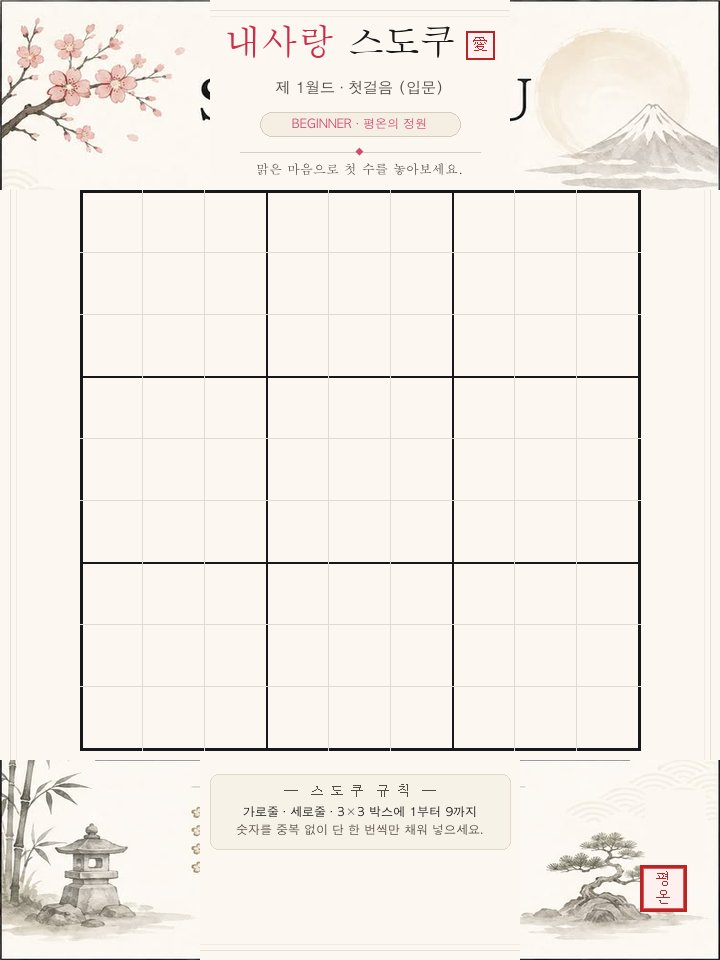
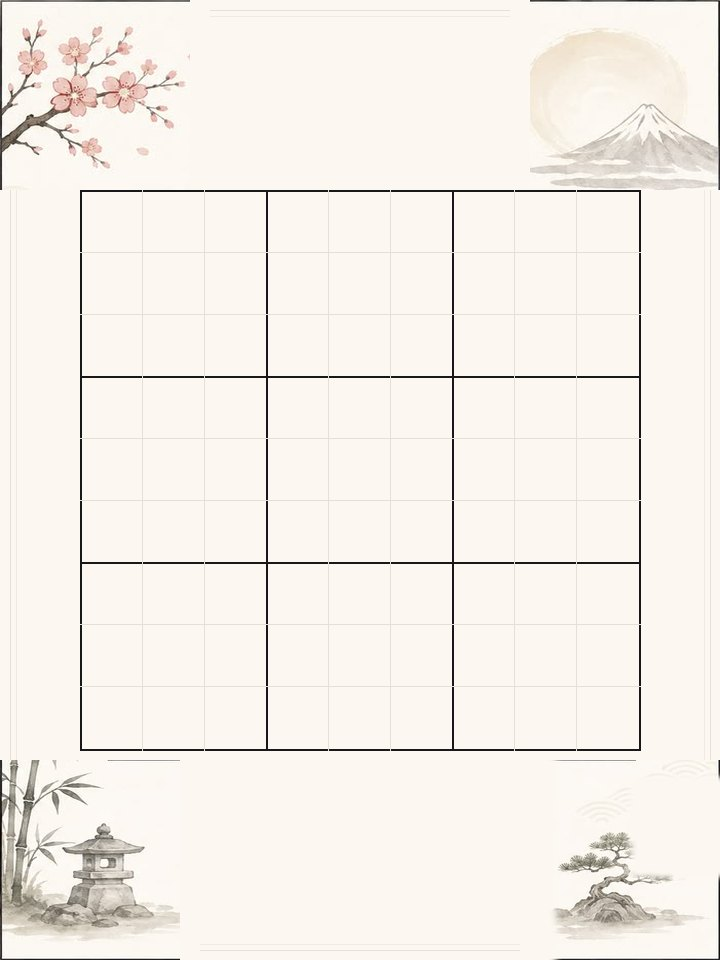
feat(ui): eliminate baked-in text from background images and render clean dynamic DOM typography for title, stage, theme, motto, rules and seal

diff --git a/src/app/GamePage.tsx b/src/app/GamePage.tsx
@@ -12,6 +12,52 @@ import { getRow, getCol, getBox } from '../domain/sudoku/types';
 import { PlayerInventory, DEFAULT_INVENTORY } from '../features/progression/progression';
 import { ItemDrawer } from '../components/ItemDrawer';
 
+interface WorldZenMeta {
+  themeName: string;
+  pill: string;
+  pillColor: string;
+  motto: string;
+  seal: [string, string];
+}
+
+const WORLD_ZEN_META: Record<number, WorldZenMeta> = {
+  1: {
+    themeName: '평온의 정원',
+    pill: 'BEGINNER · 평온의 정원',
+    pillColor: 'text-rose-700 bg-rose-50/90 border-rose-300',
+    motto: '맑은 마음으로 첫 수를 놓아보세요.',
+    seal: ['평', '온']
+  },
+  2: {
+    themeName: '푸른 대나무숲',
+    pill: 'EASY · 푸른 대나무숲',
+    pillColor: 'text-emerald-800 bg-emerald-50/90 border-emerald-300',
+    motto: '차분한 시선으로 논리의 실마리를 찾으세요.',
+    seal: ['통', '찰']
+  },
+  3: {
+    themeName: '황혼의 석탑',
+    pill: 'NORMAL · 황혼의 석탑',
+    pillColor: 'text-amber-800 bg-amber-50/90 border-amber-300',
+    motto: '깊은 집중으로 숨겨진 한 수를 밝히세요.',
+    seal: ['정', '진']
+  },
+  4: {
+    themeName: '설산과 백매화',
+    pill: 'HARD · 설산과 백매화',
+    pillColor: 'text-sky-800 bg-sky-50/90 border-sky-300',
+    motto: '정교한 추론으로 복잡한 실타래를 푸세요.',
+    seal: ['지', '혜']
+  },
+  5: {
+    themeName: '붉은 달과 천년송',
+    pill: 'MASTER · 붉은 달과 천년송',
+    pillColor: 'text-purple-800 bg-purple-50/90 border-purple-300',
+    motto: '완전한 통찰로 최고의 경지를 이루세요.',
+    seal: ['극', '치']
+  }
+};
+
 interface GamePageProps {
   stageId: number;
   activeGameSave: ActiveGameSave | null;
@@ -41,6 +87,7 @@ export const GamePage: React.FC<GamePageProps> = ({
 }) => {
   const stage = getStageById(stageId) || getStageById(1)!;
   const currentInventory = inventory || DEFAULT_INVENTORY;
+  const zenMeta = WORLD_ZEN_META[stage.worldId] || WORLD_ZEN_META[1];
 
   const [state, dispatch] = useReducer(gameReducer, stage, (initialStage) => {
     const fresh = createInitialState(initialStage);
@@ -443,10 +490,36 @@ export const GamePage: React.FC<GamePageProps> = ({
             />
           </picture>
 
-          {/* Dynamic Stage Header Subtitle Overlay */}
-          <div className="absolute top-[8.2%] left-[18%] right-[18%] text-center pointer-events-none select-none">
-            <div className="text-[10px] sm:text-[11px] font-bold text-stone-700 truncate tracking-wide">
+          {/* Top Zen Sheet Header: Real HTML Typography */}
+          <div className="absolute top-0 left-0 right-0 h-[19.8%] flex flex-col items-center justify-center px-4 pointer-events-none select-none z-10">
+            {/* Title: 내사랑 스도쿠 + 愛 Seal */}
+            <div className="flex items-center justify-center gap-1.5 leading-none">
+              <span className="font-serif font-black text-sm sm:text-base text-rose-700 tracking-tight drop-shadow-xs">
+                내사랑
+              </span>
+              <span className="font-serif font-black text-sm sm:text-base text-slate-900 tracking-tight drop-shadow-xs">
+                스도쿠
+              </span>
+              <span className="inline-flex items-center justify-center w-4 h-4 border border-rose-600 rounded-2xs text-[8px] font-serif font-black text-rose-600 bg-rose-50/90 leading-none shadow-xs">
+                愛
+              </span>
+            </div>
+
+            {/* Stage Info: 제 1단계 · 첫 번째 퍼즐 */}
+            <div className="text-[10.5px] sm:text-[11.5px] font-black text-stone-900 tracking-wide mt-1 truncate max-w-[260px]">
               제 {stage.id}단계 · {stage.title}
+            </div>
+
+            {/* World Level Theme Pill Badge */}
+            <div className="mt-0.5">
+              <span className={`inline-block px-2.5 py-0.5 rounded-full text-[8.5px] sm:text-[9.5px] font-black tracking-wider uppercase border shadow-2xs ${zenMeta.pillColor}`}>
+                {zenMeta.pill}
+              </span>
+            </div>
+
+            {/* Zen Motto / 힐링 한마디 */}
+            <div className="text-[8.5px] sm:text-[9.5px] text-stone-600 font-serif italic mt-0.5 tracking-tight truncate max-w-[280px]">
+              “{zenMeta.motto}”
             </div>
           </div>
 
@@ -557,6 +630,33 @@ export const GamePage: React.FC<GamePageProps> = ({
                 </div>
               );
             })}
+          </div>
+
+          {/* Bottom Zen Sheet Footer: Traditional Rules Plaque & Red Seal Stamp */}
+          <div className="absolute top-[78.2%] left-0 right-0 bottom-0 flex items-center justify-between px-3 sm:px-4 pointer-events-none select-none z-10">
+            {/* Left spacer for background lantern artwork */}
+            <div className="w-10 sm:w-12 shrink-0" />
+
+            {/* Center: Rules Plaque */}
+            <div className="flex-1 max-w-[220px] sm:max-w-[250px] mx-auto px-2 py-1.5 rounded-xl bg-white/85 backdrop-blur-xs border border-amber-900/15 shadow-xs text-center">
+              <div className="text-[9px] sm:text-[10px] font-serif font-black text-stone-700 tracking-widest">
+                — 스 도 쿠  규 칙 —
+              </div>
+              <div className="text-[8px] sm:text-[8.5px] font-bold text-slate-900 mt-0.5 leading-tight">
+                가로줄 · 세로줄 · 3×3 박스에 1부터 9까지
+              </div>
+              <div className="text-[7.5px] sm:text-[8px] font-medium text-stone-600 mt-0.5 leading-tight">
+                숫자를 중복 없이 단 한 번씩만 채워 넣으세요.
+              </div>
+            </div>
+
+            {/* Right: Traditional Korean Red Seal Stamp (인장) */}
+            <div className="w-10 sm:w-12 shrink-0 flex items-center justify-center">
+              <div className="w-8 h-8 sm:w-8.5 sm:h-8.5 rounded-xs border-2 border-red-700 bg-red-50/90 p-0.5 flex flex-col items-center justify-center text-red-700 font-serif font-black text-[9.5px] sm:text-[10px] leading-tight shadow-sm ring-1 ring-red-400/40">
+                <span>{zenMeta.seal[0]}</span>
+                <span>{zenMeta.seal[1]}</span>
+              </div>
+            </div>
           </div>
         </div>
       </main>

diff --git a/scripts/generate_zen_master_sheets.py b/scripts/generate_zen_master_sheets.py
@@ -1,5 +1,5 @@
 import os
-from PIL import Image, ImageDraw, ImageFont, ImageEnhance, ImageOps
+from PIL import Image, ImageDraw, ImageEnhance, ImageOps, ImageFilter
 
 SRC_IMG = "/tmp/pin1_zen.jpg"
 OUT_DIR = "/Users/kobujang/Desktop/cording/my-love-sudoku/public/assets/backgrounds"
@@ -14,79 +14,62 @@ BOARD_SIZE = 560
 
 BG_COLOR = (252, 248, 241)
 INK_BLACK = (24, 24, 26)
-INK_MUTED = (85, 75, 70)
-INK_LIGHT = (160, 150, 140)
-SEAL_RED = (185, 36, 36)
-
-FONT_TITLE = ImageFont.truetype("/System/Library/Fonts/Supplemental/AppleMyungjo.ttf", 36)
-FONT_SUB = ImageFont.truetype("/System/Library/Fonts/Supplemental/AppleGothic.ttf", 15)
-FONT_PILL = ImageFont.truetype("/System/Library/Fonts/Supplemental/AppleGothic.ttf", 12)
-FONT_RULES_TITLE = ImageFont.truetype("/System/Library/Fonts/Supplemental/AppleMyungjo.ttf", 14)
-FONT_RULES = ImageFont.truetype("/System/Library/Fonts/Supplemental/AppleGothic.ttf", 12)
-FONT_MOTTO = ImageFont.truetype("/System/Library/Fonts/Supplemental/AppleMyungjo.ttf", 13)
-FONT_SEAL = ImageFont.truetype("/System/Library/Fonts/Supplemental/AppleMyungjo.ttf", 16)
 
 src_full = Image.open(SRC_IMG).convert("RGB")
 
-orig_tl = src_full.crop((0, 0, 220, 220))
-orig_tr = src_full.crop((516, 0, 736, 220))
-orig_bl = src_full.crop((0, 740, 220, 1040))
-orig_br = src_full.crop((516, 740, 736, 1040))
+# Clean crops that strictly exclude any text, letters, or kanji:
+# TL: Cherry blossoms (x <= 185, no 'S')
+orig_tl = Image.new("RGB", (210, 190), BG_COLOR)
+crop_tl = src_full.crop((0, 0, 185, 200)).resize((190, 190), Image.Resampling.LANCZOS)
+orig_tl.paste(crop_tl, (0, 0))
+
+# TR: Sun and Fuji Mountain (x >= 550, no 'U')
+orig_tr = Image.new("RGB", (210, 190), BG_COLOR)
+crop_tr = src_full.crop((550, 0, 736, 220)).resize((190, 190), Image.Resampling.LANCZOS)
+orig_tr.paste(crop_tr, (20, 0))
+
+# BL: Bamboo and Stone Lantern (x <= 175, no flowers/lines)
+orig_bl = Image.new("RGB", (200, 200), BG_COLOR)
+crop_bl = src_full.crop((0, 740, 175, 1040)).resize((180, 200), Image.Resampling.LANCZOS)
+orig_bl.paste(crop_bl, (0, 0))
+
+# BR: Pine Tree on Rock (softly erase Japanese 'が' and '平穏' seal)
+crop_br = src_full.crop((500, 740, 736, 1040))
+mask_br = Image.new('L', crop_br.size, 0)
+d_br = ImageDraw.Draw(mask_br)
+d_br.rectangle([0, 0, 42, 300], fill=255)
+d_br.rectangle([130, 25, 236, 175], fill=255)
+mask_br = mask_br.filter(ImageFilter.GaussianBlur(radius=4))
+bg_patch = Image.new('RGB', crop_br.size, BG_COLOR)
+crop_br = Image.composite(bg_patch, crop_br, mask_br)
+
+orig_br = Image.new("RGB", (200, 200), BG_COLOR)
+orig_br.paste(crop_br.resize((200, 200), Image.Resampling.LANCZOS), (0, 0))
 
 LEVEL_CONFIGS = [
     {
         "id": 1,
         "world_name": "첫걸음",
-        "difficulty": "입문",
-        "sub_title": "제 1월드 · 첫걸음 (입문)",
-        "pill": "BEGINNER · 평온의 정원",
-        "motto": "맑은 마음으로 첫 수를 놓아보세요.",
-        "seal": ["평", "온"],
-        "theme_color": (210, 75, 115),
         "tint": "spring"
     },
     {
         "id": 2,
         "world_name": "논리의 길",
-        "difficulty": "초급",
-        "sub_title": "제 2월드 · 논리의 길 (초급)",
-        "pill": "EASY · 푸른 대나무숲",
-        "motto": "차분한 시선으로 논리의 실마리를 찾으세요.",
-        "seal": ["통", "찰"],
-        "theme_color": (40, 135, 80),
         "tint": "summer"
     },
     {
         "id": 3,
         "world_name": "도전의 탑",
-        "difficulty": "중급",
-        "sub_title": "제 3월드 · 도전의 탑 (중급)",
-        "pill": "NORMAL · 황혼의 석탑",
-        "motto": "깊은 집중으로 숨겨진 한 수를 밝히세요.",
-        "seal": ["정", "진"],
-        "theme_color": (185, 70, 35),
         "tint": "autumn"
     },
     {
         "id": 4,
         "world_name": "전문가의 성",
-        "difficulty": "고급",
-        "sub_title": "제 4월드 · 전문가의 성 (고급)",
-        "pill": "HARD · 설산과 백매화",
-        "motto": "정교한 추론으로 복잡한 실타래를 푸세요.",
-        "seal": ["지", "혜"],
-        "theme_color": (60, 100, 155),
         "tint": "winter"
     },
     {
         "id": 5,
         "world_name": "마스터 리그",
-        "difficulty": "최고급",
-        "sub_title": "제 5월드 · 마스터 리그 (최고급)",
-        "pill": "MASTER · 붉은 달과 천년송",
-        "motto": "완전한 통찰로 최고의 경지를 이루세요.",
-        "seal": ["극", "치"],
-        "theme_color": (180, 25, 40),
         "tint": "transcendent"
     }
 ]
@@ -115,10 +98,11 @@ for cfg in LEVEL_CONFIGS:
     sheet = Image.new("RGB", (WIDTH, HEIGHT), BG_COLOR)
     draw = ImageDraw.Draw(sheet)
     
+    # Outer decorative parchment border frames
     draw.rectangle([10, 10, WIDTH - 10, HEIGHT - 10], outline=(232, 224, 212), width=1)
     draw.rectangle([16, 16, WIDTH - 16, HEIGHT - 16], outline=(240, 234, 224), width=1)
     
-    # Corner elements
+    # Corner artwork elements (cherry blossoms, mountain, bamboo, pine tree)
     tl = apply_tint(orig_tl, cfg["tint"]).resize((210, 190), Image.Resampling.LANCZOS)
     sheet.paste(tl, (0, 0))
     
@@ -131,12 +115,14 @@ for cfg in LEVEL_CONFIGS:
     br = apply_tint(orig_br, cfg["tint"]).resize((200, 200), Image.Resampling.LANCZOS)
     sheet.paste(br, (WIDTH - 200, HEIGHT - 200))
     
+    # Clean bottom corner patch for smooth watercolor blend
     draw.rectangle([WIDTH - 75, HEIGHT - 170, WIDTH - 15, HEIGHT - 90], fill=BG_COLOR)
     
-    # Board area
+    # Board parchment area: clean canvas with subtle border
     draw.rectangle([BOARD_X, BOARD_Y, BOARD_X + BOARD_SIZE, BOARD_Y + BOARD_SIZE], fill=BG_COLOR)
-    draw.rectangle([BOARD_X, BOARD_Y, BOARD_X + BOARD_SIZE, BOARD_Y + BOARD_SIZE], outline=INK_BLACK, width=3)
+    draw.rectangle([BOARD_X, BOARD_Y, BOARD_X + BOARD_SIZE, BOARD_Y + BOARD_SIZE], outline=INK_BLACK, width=2)
     
+    # Subtle 3x3 block guidelines
     cell_size = BOARD_SIZE // 9
     box_size = cell_size * 3
     for b in range(1, 3):
@@ -148,69 +134,14 @@ for cfg in LEVEL_CONFIGS:
     for c in range(1, 9):
         if c in (3, 6): continue
         y = BOARD_Y + c * cell_size
-        draw.line([(BOARD_X, y), (BOARD_X + BOARD_SIZE, y)], fill=(225, 218, 208), width=1)
+        draw.line([(BOARD_X, y), (BOARD_X + BOARD_SIZE, y)], fill=(230, 223, 214), width=1)
         x = BOARD_X + c * cell_size
-        draw.line([(x, BOARD_Y), (x, BOARD_Y + BOARD_SIZE)], fill=(225, 218, 208), width=1)
+        draw.line([(x, BOARD_Y), (x, BOARD_Y + BOARD_SIZE)], fill=(230, 223, 214), width=1)
 
-    # 5. Top Header Typography with Artistic "내사랑 스도쿠" Title & Seal
-    t_love = "내사랑 "
-    t_sudoku = "스도쿠"
-    bbox_love = draw.textbbox((0, 0), t_love, font=FONT_TITLE)
-    bbox_sudoku = draw.textbbox((0, 0), t_sudoku, font=FONT_TITLE)
-    w_love = bbox_love[2] - bbox_love[0]
-    w_sudoku = bbox_sudoku[2] - bbox_sudoku[0]
-    seal_w = 28
-    
-    total_title_w = w_love + w_sudoku + 10 + seal_w
-    start_tx = (WIDTH - total_title_w) // 2
-    
-    # Draw "내사랑" in Rose Red
-    draw.text((start_tx, 45), t_love, fill=(205, 45, 75), font=FONT_TITLE, anchor="lm")
-    # Draw "스도쿠" in Ink Black
-    draw.text((start_tx + w_love, 45), t_sudoku, fill=INK_BLACK, font=FONT_TITLE, anchor="lm")
-    
-    # Mini Red Seal [愛] next to title
-    seal_tx = start_tx + w_love + w_sudoku + 10
-    draw.rectangle([seal_tx, 31, seal_tx + seal_w, 31 + seal_w], outline=SEAL_RED, width=2)
-    draw.rectangle([seal_tx + 2, 33, seal_tx + seal_w - 2, 31 + seal_w - 2], fill=(255, 240, 242))
-    draw.text((seal_tx + seal_w // 2, 31 + seal_w // 2), "愛", fill=SEAL_RED, font=FONT_SEAL, anchor="mm")
-    
-    draw.text((WIDTH // 2, 88), cfg["sub_title"], fill=INK_MUTED, font=FONT_SUB, anchor="mm")
-    
-    pill_w, pill_h = 200, 24
-    pill_x0 = (WIDTH - pill_w) // 2
-    pill_y0 = 112
-    draw.rounded_rectangle([pill_x0, pill_y0, pill_x0 + pill_w, pill_y0 + pill_h], radius=12, fill=(245, 238, 226), outline=(215, 205, 190), width=1)
-    draw.text((WIDTH // 2, pill_y0 + pill_h // 2), cfg["pill"], fill=cfg["theme_color"], font=FONT_PILL, anchor="mm")
-    
-    draw.line([(WIDTH // 2 - 120, 152), (WIDTH // 2 + 120, 152)], fill=(215, 205, 192), width=1)
-    draw.text((WIDTH // 2, 152), "◆", fill=cfg["theme_color"], font=FONT_PILL, anchor="mm")
-    draw.text((WIDTH // 2, 170), cfg["motto"], fill=INK_MUTED, font=FONT_MOTTO, anchor="mm")
-
-    # Bottom typography
-    rules_box_w = 300
-    rules_box_h = 75
-    rb_x0 = (WIDTH - rules_box_w) // 2
-    rb_y0 = BOARD_Y + BOARD_SIZE + 24
-    draw.rounded_rectangle([rb_x0, rb_y0, rb_x0 + rules_box_w, rb_y0 + rules_box_h], radius=8, fill=(247, 242, 232), outline=(225, 216, 202), width=1)
-    
-    draw.text((WIDTH // 2, rb_y0 + 16), "—  스 도 쿠  규 칙  —", fill=INK_MUTED, font=FONT_RULES_TITLE, anchor="mm")
-    draw.text((WIDTH // 2, rb_y0 + 38), "가로줄 · 세로줄 · 3×3 박스에 1부터 9까지", fill=INK_BLACK, font=FONT_RULES, anchor="mm")
-    draw.text((WIDTH // 2, rb_y0 + 56), "숫자를 중복 없이 단 한 번씩만 채워 넣으세요.", fill=INK_MUTED, font=FONT_RULES, anchor="mm")
-    
-    # Red seal stamp
-    seal_x = WIDTH - 80
-    seal_y = HEIGHT - 95
-    seal_size = 46
-    draw.rectangle([seal_x, seal_y, seal_x + seal_size, seal_y + seal_size], outline=SEAL_RED, width=3)
-    draw.rectangle([seal_x + 3, seal_y + 3, seal_x + seal_size - 3, seal_y + seal_size - 3], outline=(220, 90, 90), width=1)
-    draw.rectangle([seal_x + 4, seal_y + 4, seal_x + seal_size - 4, seal_y + seal_size - 4], fill=(255, 240, 240))
-    draw.text((seal_x + seal_size // 2, seal_y + 14), cfg["seal"][0], fill=SEAL_RED, font=FONT_SEAL, anchor="mm")
-    draw.text((seal_x + seal_size // 2, seal_y + 32), cfg["seal"][1], fill=SEAL_RED, font=FONT_SEAL, anchor="mm")
-    
+    # Note: ABSOLUTELY ZERO TEXT is drawn here! All typography is rendered cleanly via React DOM.
     webp_path = os.path.join(OUT_DIR, f"zen_sheet_level_{cfg['id']}.webp")
     jpg_path = os.path.join(OUT_DIR, f"zen_sheet_level_{cfg['id']}.jpg")
-    sheet.save(webp_path, format="WEBP", quality=82, method=6)
-    sheet.save(jpg_path, format="JPEG", quality=85, optimize=True)
+    sheet.save(webp_path, format="WEBP", quality=84, method=6)
+    sheet.save(jpg_path, format="JPEG", quality=86, optimize=True)
 
-print("Updated 5 Zen master sheets generated successfully!")
+print("Updated 5 clean Zen master sheets (without text) generated successfully!")
